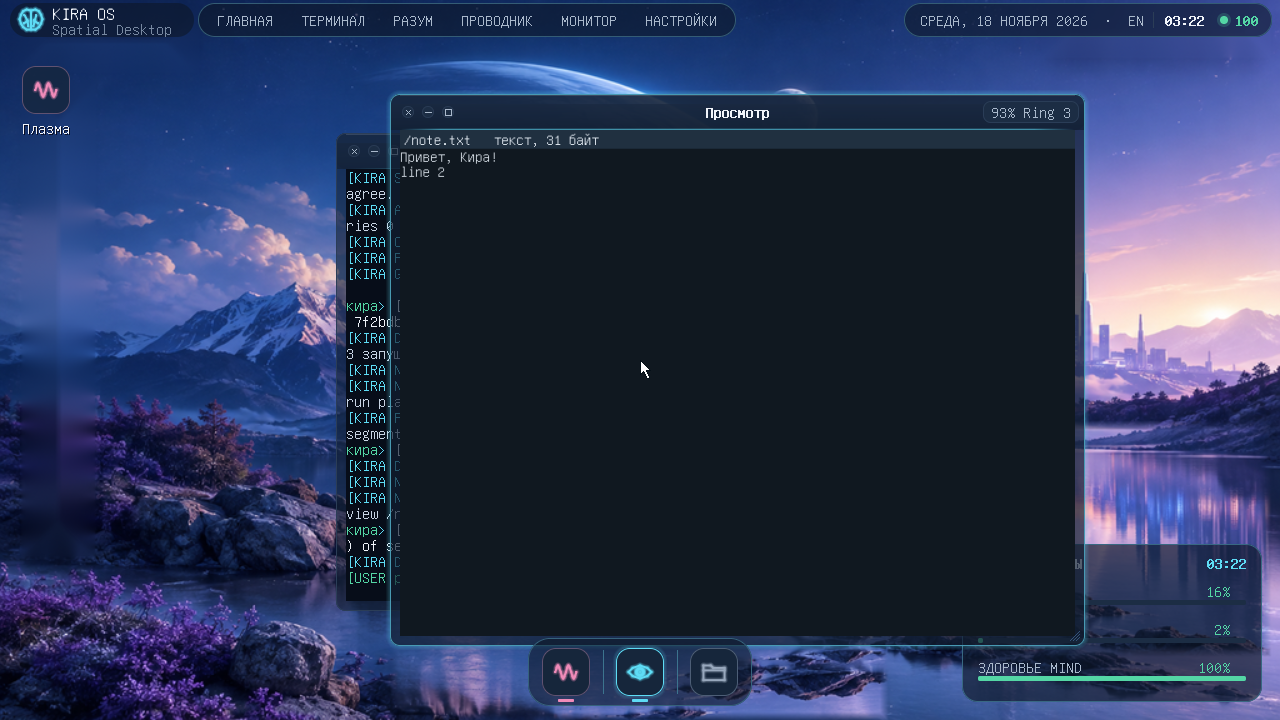
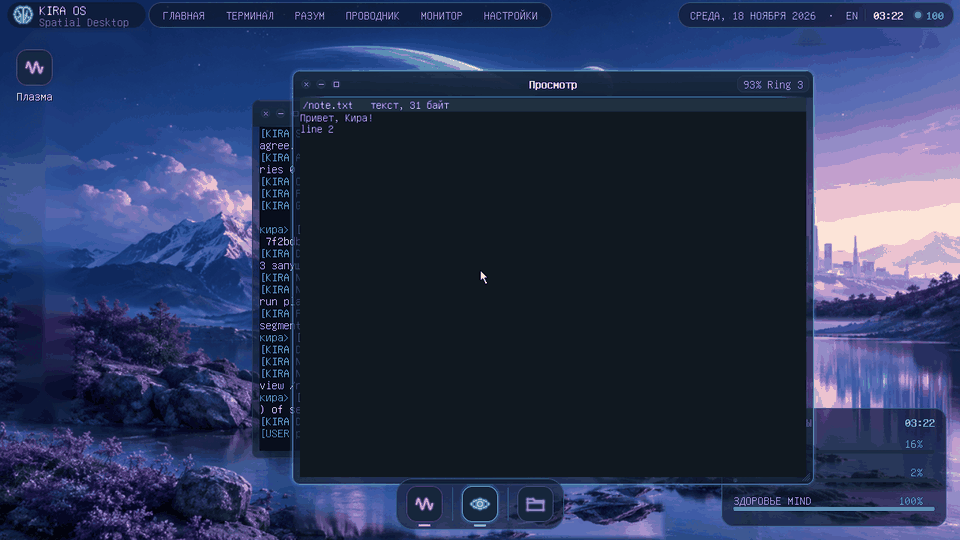
docs: снимки до/после и итоги проверки интерфейса (А13)
Claude-Session: https://claude.ai/code/session_01XvKRdje4korarjjKBGXycV

diff --git a/docs/UI_DESIGN.md b/docs/UI_DESIGN.md
@@ -112,3 +112,26 @@ F5/F6 (копия/перенос в другую панель), F3 (вид), F4 
 * QEMU: `apps-explorer2` (прежний), `apps-explorer-nav` (навигация, сортировка, создание, переименование, удаление
   с подтверждением, контекстное меню; состояние проводника выводится командой `fmstate`), `apps-dock`, `apps-view`, `apps-edit`.
 * Снимки «до» и «после» лежат в `docs/ui/`.
+
+## 6. Снимки до и после
+
+Снимки сняты стендом QEMU (`ci/kira_vm.py`, 1280x720; сжаты, обрезаны до окна).
+
+| До (тема «Aurora», Проводник как mc) | После (единый стиль) |
+|---|---|
+| ![до: Проводник](ui/before-explorer.png) | ![после: Проводник](ui/after-explorer.png) |
+| ![до: рабочий стол](ui/before-desktop.png) | ![после: рабочий стол с редактором](ui/after-desktop.png) |
+
+Остальные «после»: контекстное меню ([after-explorer-menu.png](ui/after-explorer-menu.png)), сортировка по размеру
+([after-explorer-sort.png](ui/after-explorer-sort.png)), подтверждение удаления ([after-explorer-confirm.png](ui/after-explorer-confirm.png)),
+меню запуска по группам ([after-launcher.png](ui/after-launcher.png)).
+
+## 7. Что не сделано и почему
+
+* Колонка «Изменён»: у KiraFS нет времени изменения (см. раздел 3).
+* Полное раскрывающееся дерево, закладки «Избранное», клавиатурный доступ к боковой панели, мышь в диалогах Проводника.
+* Остальные приложения Ring 3 (`paint`, `fetch`, `serve` …) не перекрашены; 3D-куб и плазма не менялись по решению владельца.
+* Фото-обои из `data/wallpaper.kwp.zst` по-прежнему ставятся в образ и показываются, если файл есть на диске: решение о нейтральных
+  обоях по умолчанию — за владельцем (на рабочем месте оператора рекомендуется убрать файл или заменить нейтральной картинкой).
+* Проверка на настоящих экранах (яркость, угол обзора) и живой прогон на ARM64: сборка ARM64 и сценарии `arm64-explorer2`, `arm64-gui` — см. отчёт.
+
